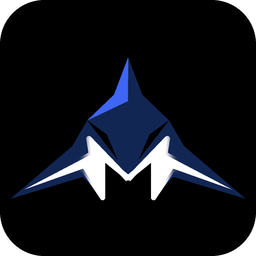
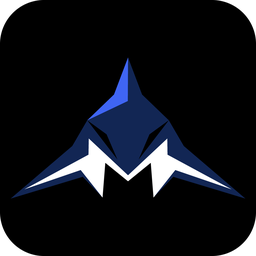
S21: redraw B2a as one sharp white shape (no stroke, fin tips kept)
Blue saw steps and rounded joins in the stroked B2 close-ups and picked B2a:
the white M's edges move out 11 units with mitred corners, fin tips stay,
so each fin tapers in straight lines. The ICO is drawn from the SVG's
polygons at 4x. Tests check one white shape, no strokes, mirroring, tips.

diff --git a/app/mako-branding.test.js b/app/mako-branding.test.js
@@ -68,16 +68,16 @@ const points = (silhouette.match(/\d+/g) || []).map(Number);
 const pairs = Array.from({length: points.length / 2}, (_, i) => [points[i * 2], points[i * 2 + 1]]);
 assert(pairs.length > 10 && pairs.every(([x, y]) => pairs.some(([mx, my]) => mx === 938 - x && my === y)),
   'the shark silhouette is exactly mirrored about its centerline');
-// S21 B2 (Blue, 2026-10-28): a bolder white centre "M", drawn as one faded stroke over the white shape.
-const b2Strokes = [...mark.matchAll(/<path fill="none" stroke="url\(#b2fade\)"[^>]* d="([^"]+)"\/>/g)];
-assert(b2Strokes.length === 1 && count(mark, 'stroke=') === 1,
-  'B2: exactly one stroke path, fill="none" first so the ICO script skips it');
-assert(/<linearGradient id="b2fade" gradientUnits="userSpaceOnUse" x1="280" y1="0" x2="658" y2="0">/.test(mark),
-  'B2: the fade gradient is in the shark group\'s own coordinates, across the centre band');
-const b2Points = (b2Strokes[0]?.[1].match(/[\d.]+/g) || []).map(Number);
-const b2Pairs = Array.from({length: b2Points.length / 2}, (_, i) => [b2Points[i * 2], b2Points[i * 2 + 1]]);
-assert(b2Pairs.length > 10 && b2Pairs.every(([x, y]) => b2Pairs.some(([mx, my]) => Math.abs(mx - (938 - x)) < 1e-9 && my === y)),
-  'B2: the bolder M stroke is mirrored about the centerline');
+// S21 B2 (Blue, 2026-10-28): the white "M" itself is drawn bolder, one filled shape with sharp corners.
+const whiteShape = mark.match(/<path fill="#fff" d="([^"]+)"\/>/)?.[1] || '';
+const whitePoints = (whiteShape.match(/\d+(?:\.\d+)?/g) || []).map(Number);
+const whitePairs = Array.from({length: whitePoints.length / 2}, (_, i) => [whitePoints[i * 2], whitePoints[i * 2 + 1]]);
+assert(count(mark, 'stroke') === 0 && count(mark, '<path fill="#fff"') === 1,
+  'B2: one filled white shape, no strokes (no rounded joins or overlays)');
+assert(whitePairs.length === 14 && whitePairs.every(([x, y]) => whitePairs.some(([mx, my]) => Math.abs(mx - (938 - x)) < 1e-6 && my === y)),
+  'B2: the white M is mirrored about the centerline');
+assert(whitePairs.some(([x, y]) => x === 55 && y === 527) && whitePairs.some(([x, y]) => x === 883 && y === 527),
+  'B2: the white fin tips stay where they were');
 
 // These outlined glyphs deliberately use only absolute M/L/H/Q/Z commands.
 // Check the geometry, not merely a comment claiming that the k has no descender.
@@ -130,7 +130,7 @@ for (let i = 0; i < iconSizes.length; i++) {
 }
 assert(iconEnd === ico.length, 'the ICO has no trailing payload');
 assert(crypto.createHash('sha256').update(ico).digest('hex') ===
[2 lines of base64/hex data omitted]
   'the approved Mako ICO bytes are unchanged (binary, identical in every checkout)');
 assert(count(main, "icon: path.join(__dirname, 'assets', 'mako.ico')") === 1,
   'the one BrowserWindow still receives the Mako ICO');

diff --git a/scripts/logo/render-shark-b2.py b/scripts/logo/render-shark-b2.py
@@ -1,62 +1,43 @@
-# Renders app/assets/mako.ico from the Mako shark (app/renderer/assets/mako-mark.svg), variant B2:
-# the white centre "M" drawn bolder, the white fins left as they are. Blue picked B2 on 2026-10-28.
+# Renders app/assets/mako.ico from the Mako shark in app/renderer/assets/mako-mark.svg, whose white
+# "M" is variant B2 (Blue's pick, 2026-10-28): drawn bolder, with sharp corners and the fin tips kept.
 # Usage (from the repo root, Python 3 with Pillow): python scripts/logo/render-shark-b2.py
 # The committed ICO was made with Python 3.12 and Pillow 13.0.0; another Pillow version may give
 # different bytes, so update the hash in app/mako-branding.test.js if you regenerate it.
-# The ICO approximates the SVG: a blurred band (x 300-640) instead of the SVG's gradient fade
-# (280-658), and a flat navy body instead of the navy gradient.
+# The SVG's polygons are drawn as they are; the only difference is a flat navy body instead of the
+# SVG's navy gradient (#102549 to #14275f).
 import io
 import re
 import struct
 from pathlib import Path
 
-from PIL import Image, ImageDraw, ImageFilter
+from PIL import Image, ImageDraw
 
 ROOT = Path(__file__).resolve().parents[2]
-S = 1024
+K = 4  # draw at 4x and scale down, so every edge is anti-aliased
+S = 1024 * K
 SIZES = [16, 24, 32, 48, 64, 128, 256]
-BOLD = 22  # stroke width added around the white shape inside the centre band, in 1024 px units
 
 
 def polys(d):
     # The SVG's group is translated by (43, 230); every path here is straight lines only.
     out = []
     for sub in d.split('M')[1:]:
-        n = list(map(int, re.findall(r'-?\d+', sub)))
-        out.append([(n[i] + 43, n[i + 1] + 230) for i in range(0, len(n), 2)])
+        n = list(map(float, re.findall(r'-?\d+(?:\.\d+)?', sub)))
+        out.append([((n[i] + 43) * K, (n[i + 1] + 230) * K) for i in range(0, len(n), 2)])
     return out
 
 
 svg = (ROOT / 'app' / 'renderer' / 'assets' / 'mako-mark.svg').read_text(encoding='utf-8')
-paths = dict(re.findall(r'<path fill="([^"]+)" d="([^"]+)"', svg))  # the B2 stroke path has no d after fill
-body = polys(paths['url(#navy)'])
-fin = polys(paths['#3f65f4'])
-cut = polys(paths['#000'])
-white = polys(paths['#fff'])
+paths = dict(re.findall(r'<path fill="([^"]+)" d="([^"]+)"', svg))
 
-
-def white_mask(stroke):
-    m = Image.new('L', (S, S), 0)
-    d = ImageDraw.Draw(m)
-    for q in white:
-        d.polygon(q, fill=255)
-        if stroke:
-            d.line(q + [q[0]], fill=255, width=stroke, joint='curve')
-    return m
-
-
-band = Image.new('L', (S, S), 0)
-ImageDraw.Draw(band).rectangle([43 + 300, 0, 43 + 640, S], fill=255)
-band = band.filter(ImageFilter.GaussianBlur(14))
-mask = Image.composite(white_mask(BOLD), white_mask(0), band)
-
-master = Image.new('RGBA', (S, S), (0, 0, 0, 0))
-d = ImageDraw.Draw(master)
-d.rounded_rectangle([0, 0, S - 1, S - 1], 176, fill='black')
-for shapes, colour in [(body, (18, 38, 84)), (fin, (63, 101, 244)), (cut, (0, 0, 0))]:
-    for q in shapes:
+big = Image.new('RGBA', (S, S), (0, 0, 0, 0))
+d = ImageDraw.Draw(big)
+d.rounded_rectangle([0, 0, S - 1, S - 1], 176 * K, fill='black')
+for fill, colour in [('url(#navy)', (18, 38, 84)), ('#3f65f4', (63, 101, 244)), ('#000', (0, 0, 0)),
+                     ('#fff', (255, 255, 255))]:
+    for q in polys(paths[fill]):
         d.polygon(q, fill=colour)
-master.paste((255, 255, 255, 255), (0, 0), mask)
+master = big.resize((1024, 1024), Image.LANCZOS)
 
 frames = []
 for size in SIZES:
